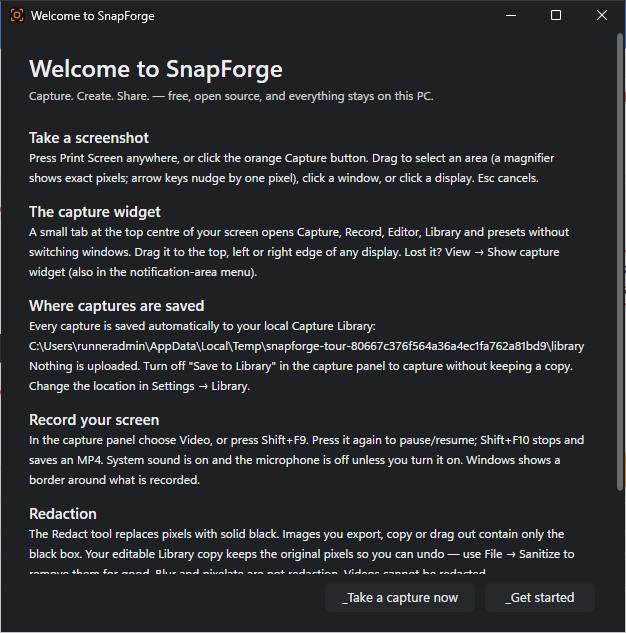
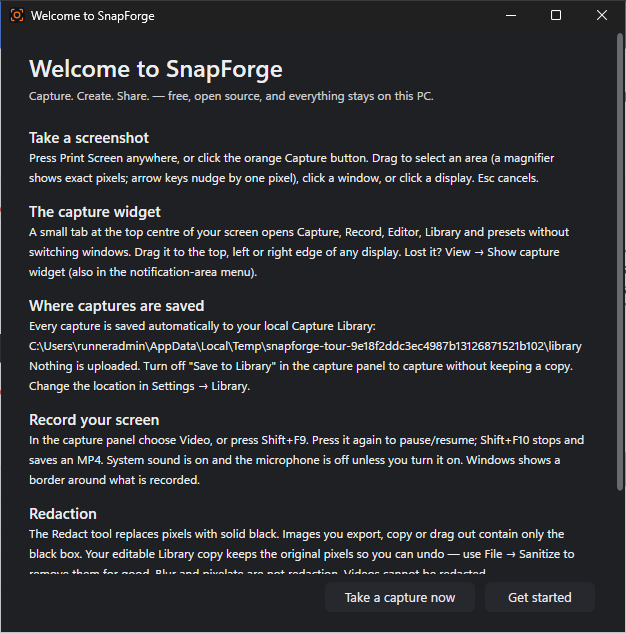
RC: handoff with CI run 83 evidence, website screenshots from run 83, defect and traceability updates
- RELEASE-CANDIDATE-HANDOFF.md: verified package commit 748eedb, CI run 83
  results and package SHA-256 values from the job log.
- Website screenshots replaced with the run 83 set (shows the access-key fix).
- Defect register: DEF-RC-05/07/08/09 evidence; traceability evidence from
  runs 82/83 (OCR-01, WEB-02, EDT-01, EDT-23); benchmarks add runs 82/83.

Claude-Session: https://claude.ai/code/session_018dbFcDsf6DbckUpHx8LD1W

Changed region(s): [[0.5463, 0.5403, 0.9409, 0.5703], [0.5463, 0.9305, 0.7284, 0.9605], [0.7891, 0.9305, 0.9409, 0.9605]]

diff --git a/docs/PRODUCT-REQUIREMENTS-TRACEABILITY.md b/docs/PRODUCT-REQUIREMENTS-TRACEABILITY.md
@@ -24,9 +24,9 @@ stated). Evidence links: [RELEASE-CANDIDATE-HANDOFF.md](RELEASE-CANDIDATE-HANDOF
 
 | Status | Count |
 |---|---|
-| Manual verification pending | 52 |
-| Automated test passed | 42 |
-| Implemented | 10 |
+| Manual verification pending | 53 |
+| Automated test passed | 43 |
+| Implemented | 8 |
 | Verified | 4 |
 | Blocked | 3 |
 | Deferred with justification | 2 |
@@ -45,12 +45,12 @@ P2 = enhancement.
 | CAP-02 | P0 | Individual monitor capture | Manual verification pending | Capture/OverlaySession.cs | Click a display → exactly that monitor's pixels | InteractiveUiTests (display) | PC: 2+ monitors, mixed DPI | WCI | App tests (CI) | CI has one monitor |
 | CAP-03 | P0 | Region capture, pixel-accurate, size label in pixels | Automated test passed | Core/Capture/SelectionTracker.cs, Capture/SelectionOverlayWindow.cs | Drag → exact physical-pixel rectangle; label shows W × H | SelectionTrackerTests; InteractiveUiTests (real mouse) | PC: mixed DPI | SIM+WCI | Core+App tests | — |
 | CAP-04 | P0 | Window capture (click a window) | Automated test passed | Core/Capture/WindowPicker.cs | Click → window bounds (DWM frame) | InteractiveUiTests | PC: maximised/snapped windows | WCI | App tests | — |
-| CAP-05 | P1 | Active-window capture (no click) | Automated test passed | Services/CaptureController.cs | Captures the foreground window of another program | ReleaseCandidateUiTests.Active_window_* | PC | WCI | App tests (CI run 77) | Falls back to topmost other window when SnapForge was in front |
+| CAP-05 | P1 | Active-window capture (no click) | Automated test passed | Services/CaptureController.cs | Captures the foreground window of another program | ReleaseCandidateUiTests.Active_window_* | PC | WCI | App tests (CI runs 77, 82, 83) | Falls back to topmost other window when SnapForge was in front |
 | CAP-06 | P1 | Multi-monitor and negative coordinates | Manual verification pending | Core/Capture/ScreenLayout.cs | Selections across monitors with negative origins are exact | ScreenLayoutTests (SIM) | PC: monitor left of primary, portrait, mixed DPI | SIM | Core tests | CI single monitor |
 | CAP-07 | P1 | Delayed capture with countdown (Esc cancels) | Automated test passed | Dialogs/InputDialog.cs (CountdownWindow) | Countdown then capture; Esc cancels | GateBUiTests (delay) | — | WCI | App tests | — |
-| CAP-08 | P1 | Repeat last capture | Automated test passed | Services/CaptureController.cs, App.xaml.cs | Same screen rectangle without selection | ReleaseCandidateUiTests.Repeat_last_* | — | WCI | App tests (CI run 77) | In memory only (not after restart) |
+| CAP-08 | P1 | Repeat last capture | Automated test passed | Services/CaptureController.cs, App.xaml.cs | Same screen rectangle without selection | ReleaseCandidateUiTests.Repeat_last_* | — | WCI | App tests (CI runs 77, 82, 83) | In memory only (not after restart) |
 | CAP-09 | P1 | Cursor inclusion/exclusion | Manual verification pending | ScreenCaptureService.cs | Pointer drawn only when enabled | ScreenCaptureTests (cursor) | PC visual check | WCI | App tests | — |
-| CAP-10 | P1 | Capture from clipboard image | Automated test passed | MainWindow.xaml.cs (OnNewFromClipboard) | Clipboard image opens as a capture | ReleaseCandidateUiTests.New_from_clipboard_* | — | WCI | App tests (CI run 77) | — |
+| CAP-10 | P1 | Capture from clipboard image | Automated test passed | MainWindow.xaml.cs (OnNewFromClipboard) | Clipboard image opens as a capture | ReleaseCandidateUiTests.New_from_clipboard_* | — | WCI | App tests (CI runs 77, 82, 83) | — |
 | CAP-11 | P0 | Capture cancellation (Esc / right-click) | Automated test passed | Capture/OverlaySession.cs | Nothing captured, windows restored | InteractiveUiTests | — | WCI | App tests | — |
 | CAP-12 | P1 | Presets with own hotkeys | Automated test passed | Core/Settings/AppSettings.cs, Views/CaptureWindow.xaml.cs | Preset hotkey runs its options | GateBUiTests (presets) | PC: global hotkeys while another app has focus | WCI | App tests | — |
 | CAP-13 | P0 | Configurable shortcuts, Print Screen, conflict reporting | Manual verification pending | Interop/ShellIntegration.cs | Conflicts reported with fix hint | TrayAndSettingsTests | PC: Print Screen with Snipping Tool setting on/off | SIM+WCI | Tests | Windows may reserve Print Screen |
@@ -78,7 +78,7 @@ P2 = enhancement.
 
 | ID | P | Requirement | Status | Source | Acceptance criteria | Automated tests | Manual test still required | Env | Evidence | Limitations |
 |---|---|---|---|---|---|---|---|---|---|---|
-| EDT-01 | P0 | Select, move, resize, recolour, delete annotations | Manual verification pending | Editor/AnnotationCanvas.cs | Works from menu/toolbar/shortcut; undoable where it changes the image | InteractiveUiTests | PC: visual check of output | SIM+WCI | Tests | — |
+| EDT-01 | P0 | Select, move, resize (thickness), recolour, delete annotations; toolbar reachable at 900-1280 px | Manual verification pending | Editor/AnnotationCanvas.cs, MainWindow.xaml | Works from menu/toolbar/shortcut; undoable where it changes the image | InteractiveUiTests; ReleaseCandidateUiTests (toolbar width) | PC: visual check of output | SIM+WCI | Tests | — |
 | EDT-02 | P0 | Crop | Manual verification pending | Core/Editing/CropCommand.cs | Works from menu/toolbar/shortcut; undoable where it changes the image | EditorDocumentTests | PC: visual check of output | SIM+WCI | Tests | — |
 | EDT-03 | P1 | Rotate 90/180/270, flip H/V (annotations follow) | Manual verification pending | Core/Editing/TransformImageCommand.cs | Works from menu/toolbar/shortcut; undoable where it changes the image | TransformCommandTests; ReleaseCandidateUiTests | PC: visual check of output | SIM+WCI | Tests | Text keeps orientation under rotate |
 | EDT-04 | P1 | Resize image (px/percent, aspect lock) | Manual verification pending | Core/Editing/ResizeImageCommand.cs, Dialogs/ImageSizeDialogs.cs | Works from menu/toolbar/shortcut; undoable where it changes the image | TransformCommandTests; feature self-test | PC: visual check of output | SIM+WCI | Tests | — |
@@ -100,7 +100,7 @@ P2 = enhancement.
 | EDT-20 | P0 | Undo/redo for every edit | Manual verification pending | Core/Editing/UndoRedoHistory.cs | Works from menu/toolbar/shortcut; undoable where it changes the image | EditorDocumentTests; TransformCommandTests | PC: visual check of output | SIM+WCI | Tests | — |
 | EDT-21 | P1 | Quick Styles, saved styles, favourites | Manual verification pending | Core/Settings (QuickStyle) | Works from menu/toolbar/shortcut; undoable where it changes the image | TrayAndSettingsTests | PC: visual check of output | SIM+WCI | Tests | — |
 | EDT-22 | P1 | Printing | Implemented | MainWindow.xaml.cs (OnPrint) | Works from menu/toolbar/shortcut; undoable where it changes the image | — | PC: visual check of output | PC | Pending manual | Prints the flattened image fitted to the page; no print preview |
-| EDT-23 | P1 | Copy/paste/duplicate annotations | Implemented | MainWindow.xaml.cs | Works from menu/toolbar/shortcut; undoable where it changes the image | — | PC: visual check of output | PC | Pending manual | Annotation clipboard is in-app only |
+| EDT-23 | P1 | Copy/paste/duplicate annotations | Manual verification pending | MainWindow.xaml.cs | Works from menu/toolbar/shortcut; undoable where it changes the image | InteractiveUiTests (copy, paste, duplicate, delete with real mouse) | PC: visual check of output | SIM+WCI | Tests | Annotation clipboard is in-app only |
 | EDT-24 | P0 | Lossless PNG, JPEG quality, BMP, TIFF export; no metadata | Manual verification pending | Rendering/ImageExporter.cs, Core/Export/ImageFileFormat.cs | Works from menu/toolbar/shortcut; undoable where it changes the image | ExportTests; ExportRulesTests | PC: visual check of output | SIM+WCI | Tests | — |
 | EDT-25 | P0 | Editable project (.sfcap) and flattened exports | Manual verification pending | Core/Storage/CaptureFormat.cs | Works from menu/toolbar/shortcut; undoable where it changes the image | CaptureFormat tests | PC: visual check of output | SIM+WCI | Tests | — |
 | EDT-26 | P2 | Alignment, grouping, snapping, templates | Deferred with justification | — | — | — | — | — | — | Evaluated; deferred to 1.x (owner disposition): annotations are free-positioned; Shift constrains angles/squares |
@@ -117,7 +117,7 @@ P2 = enhancement.
 
 | ID | P | Requirement | Status | Source | Acceptance criteria | Automated tests | Manual test still required | Env | Evidence | Limitations |
 |---|---|---|---|---|---|---|---|---|---|---|
-| OCR-01 | P1 | Offline OCR of a capture (Windows.Media.Ocr), review, copy | Manual verification pending | Ocr/OcrService.cs, Ocr/TextRecognitionWindow.cs | Known text recognised in order; nothing stored or sent | feature self-test ocr-recognize (UNAVAILABLE on runners without an OCR language) | PC: English OCR on screenshots | WCI/PC | Feature self-test report | Accuracy not guaranteed; language must be installed in Windows |
+| OCR-01 | P1 | Offline OCR of a capture (Windows.Media.Ocr), review, copy | Manual verification pending | Ocr/OcrService.cs, Ocr/TextRecognitionWindow.cs | Known text recognised in order; nothing stored or sent | feature self-test ocr-recognize (3 lines in order, en-US) and ocr-tall-image (160/160 lines) | PC: English OCR on real screenshots; other languages | WCI | Feature self-test PASS (CI runs 77, 82, 83) | Accuracy not guaranteed; language must be installed in Windows |
 | OCR-02 | P1 | Language list/choice, clear missing-language and failure messages | Implemented | OcrService.cs | Messages name the Windows setting to change | feature self-test ocr-languages | PC: remove OCR language and retry | PC | — | — |
 | OCR-03 | P1 | OCR from a Library image | Implemented | Open capture → Image → Extract text | Same as OCR-01 | — | PC | PC | — | From the Editor (open the Library item first) |
 | OCR-04 | P1 | Tall images (scrolling captures) recognised in bands | Automated test passed | OcrService.cs | Last line found exactly once | feature self-test ocr-tall-image | — | WCI | Feature self-test | Requires OCR language on the machine |
@@ -220,7 +220,7 @@ P2 = enhancement.
 | ID | P | Requirement | Status | Source | Acceptance criteria | Automated tests | Manual test still required | Env | Evidence | Limitations |
 |---|---|---|---|---|---|---|---|---|---|---|
 | WEB-01 | P0 | Website on gh-pages, accurate claims, download disabled until approval, donations hidden | Automated test passed | website/ | build.py --check, browser tests | Website workflow | Owner: Pages enabled | WCI | Website CI | — |
-| WEB-02 | P1 | High-resolution real screenshots gallery | Implemented | website/static/assets/screenshots | 1920×1080 PNG from the packaged build | Screenshot tour (CI) | Visual review | WCI | CI log PNGs | — |
+| WEB-02 | P1 | High-resolution real screenshots gallery | Automated test passed | website/static/assets/screenshots, website/src/pages/features.html | Full-resolution PNG (1920×1080 desktop) from the packaged build, sha256-verified | Screenshot tour (CI run 83); website build validation, unit tests and Chromium/axe check | Owner visual review | WCI | 15 PNGs, checksums verified | — |
 
 ### DOC
 

diff --git a/docs/RELEASE-CANDIDATE-HANDOFF.md b/docs/RELEASE-CANDIDATE-HANDOFF.md
@@ -9,9 +9,9 @@ need the owner's explicit approval (see [RELEASE-PROCESS.md](RELEASE-PROCESS.md)
 | Item | Link |
 |---|---|
 | Integration pull request (`release/v1.0-candidate` → `main`, **do not merge without approval**) | {{PR}} |
-| Exact source commit | {{COMMIT}} |
-| Latest CI run for that commit | {{RUN}} |
-| Windows packages (portable ZIP, per-user installer, SBOM, `SHA256SUMS.txt`) | Artifact `{{PKG_ARTIFACT}}` on that run (GitHub sign-in required; Actions artifacts expire after 14–30 days — not a public download) |
+| Exact source commit of the verified packages | [`748eedb`](https://github.com/bazeocrisy/SnapForge/commit/748eedba8cf5d9281cbd04aa7311e02ce8ab96c3) (`748eedba8cf5d9281cbd04aa7311e02ce8ab96c3`). Later commits on the branch change only documentation, the website and this page — check with `git diff --stat 748eedb release/v1.0-candidate` |
+| CI run for that commit (all 5 jobs passed) | [CI run 83](https://github.com/bazeocrisy/SnapForge/actions/runs/46034042240) — previous fully green run: [CI run 82](https://github.com/bazeocrisy/SnapForge/actions/runs/46030782634) (`e5f5363`) |
+| Windows packages (portable ZIP, per-user installer, SBOM, `SHA256SUMS.txt`) | [`SnapForge-1.0.0-rc.1-packages-748eedb…`](https://github.com/bazeocrisy/SnapForge/actions/runs/46034042240/artifacts/15215118886) on that run (GitHub sign-in required; Actions artifacts expire after 14–30 days — not a public download) |
 | Portable build only | Artifact `SnapForge-portable-win-x64-dev-<commit>` on that run |
 | Test results (TRX + coverage) | Artifact `test-results` on that run |
 | Library benchmarks | Artifact `benchmarks-<commit>`; summary in [BENCHMARKS-1.0.md](BENCHMARKS-1.0.md) |
@@ -25,14 +25,35 @@ need the owner's explicit approval (see [RELEASE-PROCESS.md](RELEASE-PROCESS.md)
 
 **Package checksums** (from the CI log of the run above; verify with `Get-FileHash` against `SHA256SUMS.txt`):
 
-{{SHA}}
+| File | SHA-256 |
+|---|---|
[3 lines of base64/hex data omitted]
+
+File version 1.0.0.83; product version 1.0.0-rc.1; channel "Release candidate (not approved for public release)". Unsigned.
 
 ## 2. What CI proved for this commit
 
-{{CI_EVIDENCE}}
+CI run 83 (`748eedb`) — every job passed. Numbers below are copied from the job logs:
+
+| Job | Result |
+|---|---|
+| Core tests (Linux) | 346 / 346 passed |
+| Windows build (warnings as errors), locked restore, vulnerability audit | Passed; no vulnerable packages |
+| Windows tests | Core 346 / 346 and App 63 / 63 passed. The App tests use real mouse/keyboard input, real screen capture, clipboard, OLE drag-and-drop into a separate process, a real-wheel scrolling capture and toolbar layout at 900 and 1280 px |
+| Portable build on a runner with every .NET installation hidden | `--self-test` PASS (6 checks) |
+| Video self-test | PASS (14 checks). A/V error 0.07 ms max with no drift; constant frame rate 361 frames / 12.0 s; pause/resume A/V error 13.4 ms max (run 82: 2.3 ms); 60 FPS with 0 dropped frames; recording toolbar 100 % absent from the video; single session; cancel discards the file |
+| Feature self-test | PASS. OCR en-US: 3 lines in order; tall image: 160 of 160 lines. Video trim + cut: 6.0 s → 4.0 s, parts in order, audio kept. GIF export. Frame extraction. 4K image operations: 1,080 ms (target < 10 s). GIF encoder: 295 ms (target < 3 s). Transforms with undo restore the exact original |
+| Crash recovery (process killed while recording) | Recovered 8.7 s of the interrupted recording at the next start |
+| Screenshot tour at 1920×1080 | 15 full-resolution PNGs, SHA-256 verified; used on the website |
+| Installer (all .NET installations hidden) | Per-user silent install, self-test of the installed app, upgrade over itself, uninstall. User data kept |
+| Library scale benchmarks | Completed (artifact `benchmarks-748eedb…`); run 77 figures are summarised in BENCHMARKS-1.0.md |
+
+Defects found and fixed while getting CI green on this candidate: DEF-RC-07 (toolbar clipped at narrow widths), DEF-RC-08 (GIF timing test under coverage), DEF-RC-09 (access keys showed a literal underscore in every dialog). See DEFECT-REGISTER.md.
 
 All numbers are from a GitHub-hosted Windows Server 2025 runner (Windows 10.0.26100, 4 vCPU, **no GPU, no audio
-devices, one 1024×768 or 1920×1080 virtual display**). They are not physical-PC results.
+devices, one 1024×768 virtual display (1920×1080 for the screenshot tour)**). They are not physical-PC results.
 
 ## 3. Status by area (details and evidence per requirement in the traceability matrix)
 

diff --git a/docs/DEFECT-REGISTER.md b/docs/DEFECT-REGISTER.md
@@ -23,11 +23,11 @@ failure.
 | DEF-RC-02 | Medium | REL (CI) | Push to `release/v1.0-candidate` | CI runs | Only the Website workflow ran | CI trigger listed `main` and `claude/**` only | `a5ca8d3` | — (CI runs on every push since) | CI runs 75+ on the branch |
 | DEF-RC-03 | Low | Tests | Capture panel test after adding *Active window* | Test reflects the menu | Test expected the old 4-item menu | Intended UI change; stale expectation | `e112736` | `Capture_panel_selection_delay_reset_and_presets_work` | CI run 77: App tests 60/60 |
 | DEF-RC-04 | Low | Tests | Core timing test under CI coverage instrumentation | Bound measures the product | 60 s with coverage vs ~1 s without | Coverage instrumentation slows pixel loops ~50× | `0edd5f3` | Core test keeps a loose bound; `image-performance` in the packaged-build feature self-test enforces < 10 s | CI run 77: 942 ms on the packaged build |
-| DEF-RC-05 | Low | Tests | Feature self-test frame extraction at 4.5 s | Expects the colour of second 4–5 | Expected magenta (second 5–6) | Off-by-one in the test's expectation (product correct: returned cyan) | `d73fe3a` | `video-frame-extract` | Next CI run |
+| DEF-RC-05 | Low | Tests | Feature self-test frame extraction at 4.5 s | Expects the colour of second 4–5 | Expected magenta (second 5–6) | Off-by-one in the test's expectation (product correct: returned cyan) | `d73fe3a` | `video-frame-extract` | CI runs 82, 83: pass |
 | DEF-RC-06 | Medium | PKG | First installer test design used a PowerShell function parameter named `$args` | Arguments passed to setup | `$args` is an automatic variable (would pass nothing) | Script bug found in review before CI | `a5ca8d3` (pre-push fix) | Installer CI job | CI run 77: installer job passed |
-| DEF-RC-07 | Medium | EDT | Editor toolbar at narrow window widths (900–~1250 px) | All tools, Undo/Redo/Delete and Export reachable at the minimum width | After Pen/Callout/Stamp were added, the right-hand groups were pushed out of the window; clicking Delete hit nothing (CI run 78, `InteractiveUiTests` at 980 px) | Toolbar was a non-wrapping DockPanel sized for 12 tools | `a6e399f`; test window width adjusted in the next commit (the wrapped toolbar is taller at 980 px, so the test image no longer showed at 1:1) | `Every_toolbar_control_stays_fully_visible_at_the_window_width(900/1280)` + the original interactive test at 1280 px | Next CI run |
-| DEF-RC-08 | Low | Tests | GIF encoder timing unit test under CI coverage instrumentation | 30 frames 640×360 < 3 s | 3.19 s in CI run 79 (coverage on) | Same cause as DEF-RC-04 | next commit | Core test bound 30 s; new `gif-encoder-performance` feature self-test enforces < 3 s on the packaged build | Next CI run |
-| DEF-RC-09 | Medium | ACC | Dialog buttons with access keys (e.g. OCR window "_Copy text", scrolling capture "_Auto-scroll") | Label shows "Copy text" with Alt+C | Literal underscore shown, no Alt shortcut (found in the CI run 82 website screenshot) | Button templates' ContentPresenter lacked RecognizesAccessKey | next commit | CI screenshot of the OCR window (visual); MA-ACC-01 keyboard check | Next CI run |
+| DEF-RC-07 | Medium | EDT | Editor toolbar at narrow window widths (900–~1250 px) | All tools, Undo/Redo/Delete and Export reachable at the minimum width | After Pen/Callout/Stamp were added, the right-hand groups were pushed out of the window; clicking Delete hit nothing (CI run 78, `InteractiveUiTests` at 980 px) | Toolbar was a non-wrapping DockPanel sized for 12 tools | `a6e399f`; test window width adjusted in the next commit (the wrapped toolbar is taller at 980 px, so the test image no longer showed at 1:1) | `Every_toolbar_control_stays_fully_visible_at_the_window_width(900/1280)` + the original interactive test | CI runs 82, 83: pass; 1920-px screenshot shows one toolbar row |
+| DEF-RC-08 | Low | Tests | GIF encoder timing unit test under CI coverage instrumentation | 30 frames 640×360 < 3 s | 3.19 s in CI run 79 (coverage on) | Same cause as DEF-RC-04 | next commit | Core test bound 30 s; new `gif-encoder-performance` feature self-test enforces < 3 s on the packaged build | CI runs 82, 83: Core tests pass; self-test 282 / 295 ms |
+| DEF-RC-09 | Medium | ACC | Dialog buttons with access keys (e.g. OCR window "_Copy text", scrolling capture "_Auto-scroll") | Label shows "Copy text" with Alt+C | Literal underscore shown, no Alt shortcut (found in the CI run 82 website screenshot) | Button templates' ContentPresenter lacked RecognizesAccessKey | `748eedb` | CI screenshot of the OCR window (visual); MA-ACC-01 keyboard check | CI run 83 screenshot shows "Copy text"; keyboard check pending (MA-ACC-01) |
 
 ## Defects from earlier milestones (closed)
 

diff --git a/docs/BENCHMARKS-1.0.md b/docs/BENCHMARKS-1.0.md
@@ -32,10 +32,13 @@ Core library operations (production durability: temp file + flush + atomic renam
 at every size (index continues in the background); the UI stays responsive (p95 tick ≤ 57 ms above 100 captures; the
 longest single freeze 127–210 ms); memory grows slowly with library size (226 → 261 MB).
 
-## Editing (packaged build, feature self-test, CI run 77)
+## Editing and GIF (packaged build, feature self-test)
 
-4K (3840×2160) rotate + downscale to 1080p + upscale to 5000×3000 + full-image blur radius 8: **942 ms** (target
-< 10 s).
+| Check | CI run 77 (`0edd5f3`) | CI run 82 (`e5f5363`) | Target |
+|---|---|---|---|
+| 4K (3840×2160) rotate + downscale to 1080p + upscale to 5000×3000 + full-image blur radius 8 | 942 ms | 771 ms | < 10 s |
+| GIF encoder: 30 frames 640×360, ordered dither | — | 282 ms (119 KB) | < 3 s |
+| Video trim + cut (6 s source → 4.0 s, re-encoded with audio) | pass | pass | correct order, audio kept |
 
 ## Recording (existing V1 benchmarks)
 
